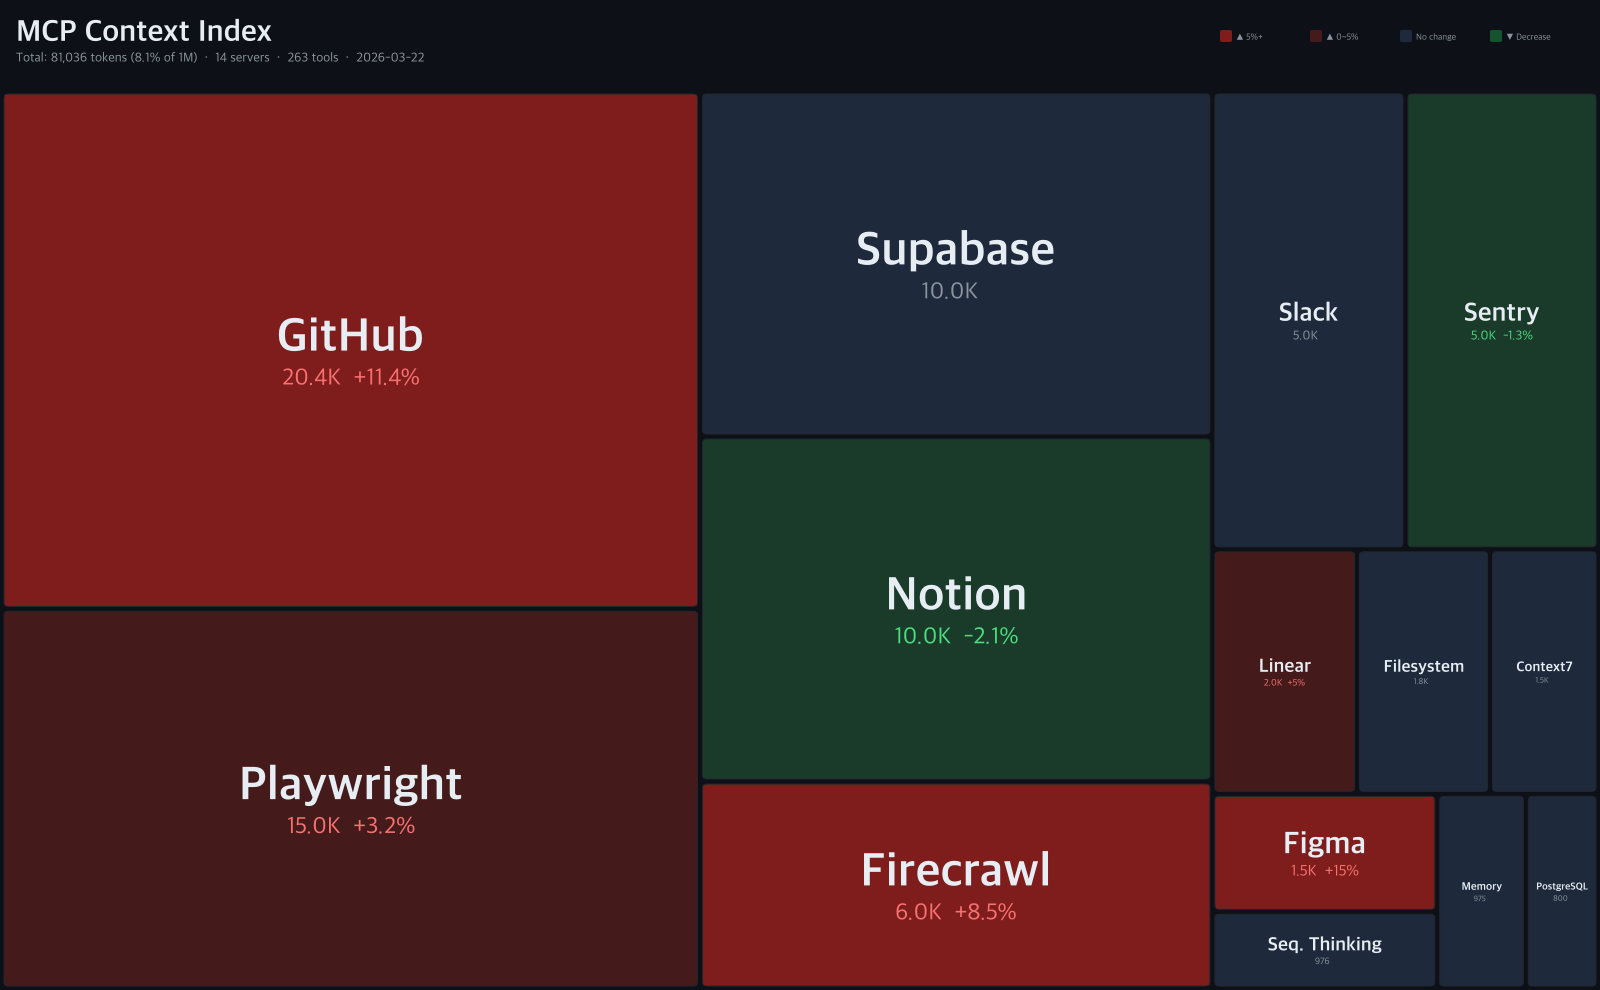
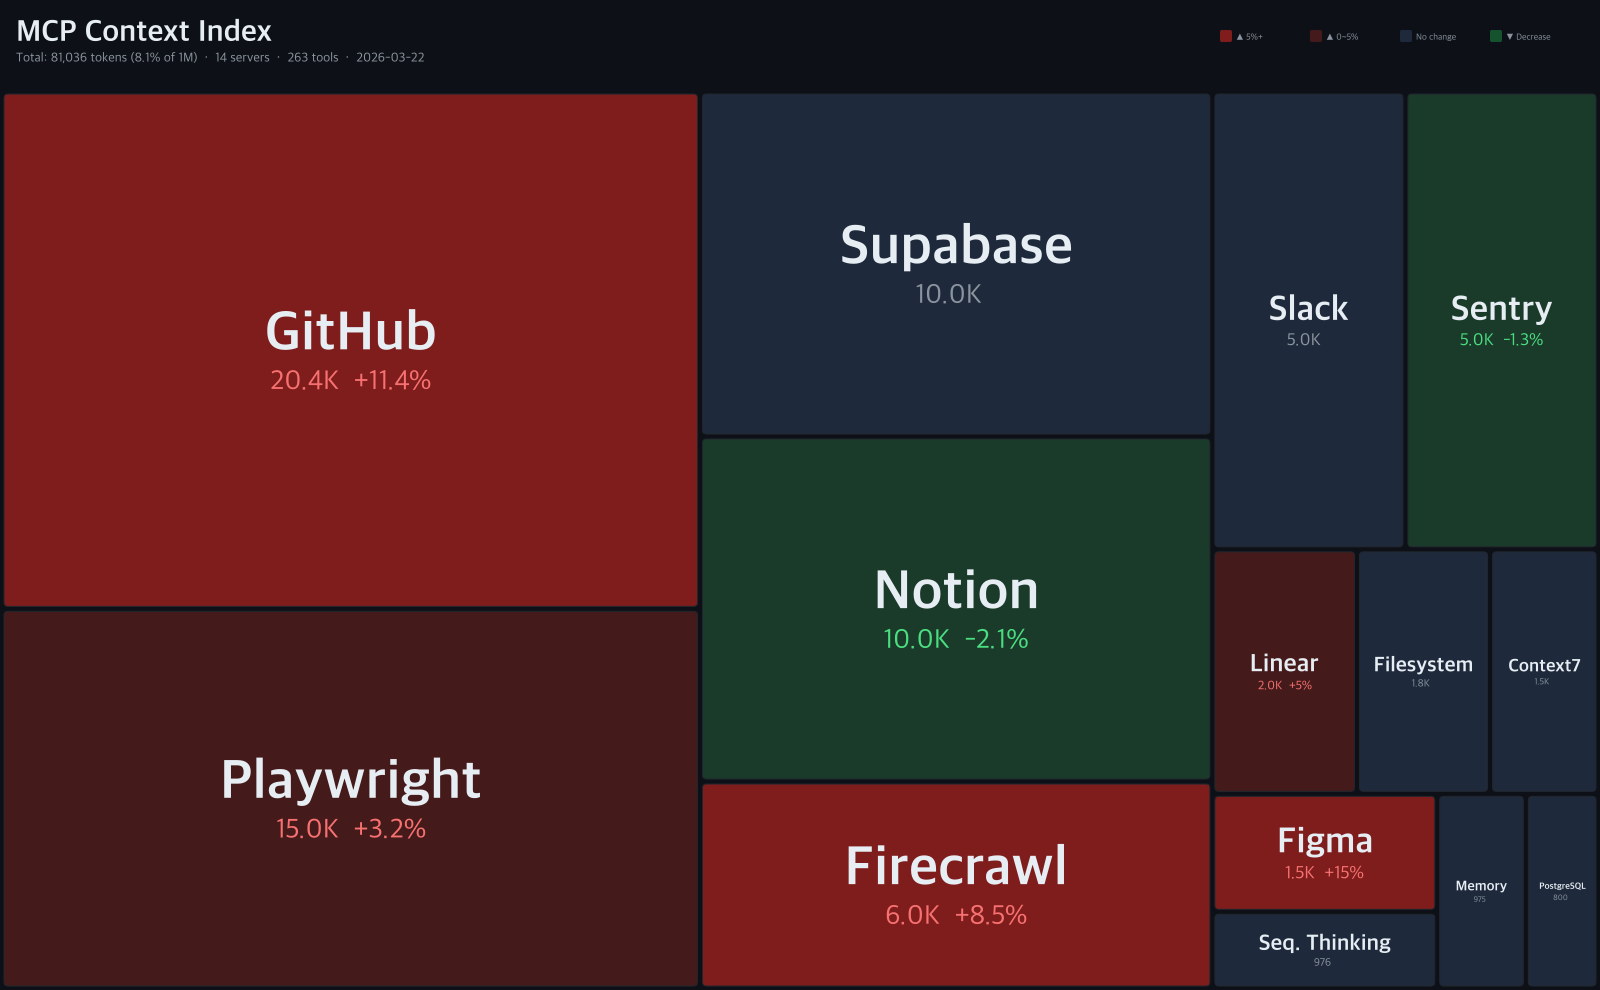
Add skills to treemap + fix thin block readability
- Skills data (ECC, Trail of Bits, Superpowers) now shown in agent context treemap
- Thin blocks: font clamped to block height, sub-text hidden when no space
- Very small blocks: single-line name only, skip if too small
- Skills category legend added (teal)

diff --git a/scripts/render-treemap.js b/scripts/render-treemap.js
@@ -62,16 +62,17 @@ function setFont(ctx, size, weight = 'normal') {
 }
 
 /**
- * Calculate font size that makes text fill ~targetRatio of the block width.
- * Uses canvas measureText for accuracy.
+ * Calculate font size that fits text within block dimensions.
+ * Constrained by both width and height.
  */
-function fitFontSize(ctx, text, blockW, blockH, weight = 'bold', targetRatio = 0.85, maxLines = 3) {
-  const maxByHeight = blockH / (maxLines * 1.6);
-  let fs = Math.min(blockW * 0.15, maxByHeight, 48);
+function fitFontSize(ctx, text, blockW, blockH, weight = 'bold', targetRatio = 0.85, maxLines = 2) {
+  // Height constraint: name + sub-text must fit in block
+  const maxByHeight = blockH / (maxLines * 1.4);
+  let hi = Math.min(blockW * 0.2, maxByHeight, 56);
 
-  // Binary search for best fit
-  let lo = 8, hi = fs;
-  for (let i = 0; i < 10; i++) {
+  // Binary search for width fit
+  let lo = 6;
+  for (let i = 0; i < 12; i++) {
     const mid = (lo + hi) / 2;
     setFont(ctx, mid, weight);
     const measured = ctx.measureText(text).width;
@@ -81,7 +82,7 @@ function fitFontSize(ctx, text, blockW, blockH, weight = 'bold', targetRatio = 0
       hi = mid;
     }
   }
-  return Math.max(10, Math.floor(lo));
+  return Math.max(8, Math.floor(lo));
 }
 
 // ── Load Data ────────────────────────────────────────────
@@ -106,6 +107,25 @@ function loadMcpHistory() {
     history[id] = JSON.parse(readFileSync(join(mcpDir, file), 'utf-8'));
   }
   return history;
+}
+
+function loadSkillData() {
+  const skillDir = join(DATA_DIR, 'skills');
+  if (!existsSync(skillDir)) return [];
+
+  const results = [];
+  for (const file of readdirSync(skillDir).filter(f => f.endsWith('.json'))) {
+    const data = JSON.parse(readFileSync(join(skillDir, file), 'utf-8'));
+    const latest = data.versions?.[data.versions.length - 1];
+    if (latest && latest.alwaysOnTokens > 0) {
+      results.push({
+        name: data.name,
+        tokens: latest.alwaysOnTokens,
+        skillCount: latest.skillCount,
+      });
+    }
+  }
+  return results;
 }
 
 // ── Render MCP Treemap ───────────────────────────────────
@@ -156,43 +176,45 @@ function renderMcpTreemap(snapshot) {
     roundRect(ctx, x + 1, y + 1, w - 2, h - 2, 4);
     ctx.stroke();
 
-    // Stock-style centered label: NAME big + sub-info below
+    // Stock-style centered label
     const pad = 6;
     const innerW = w - pad * 2;
     const innerH = h - pad * 2;
-    if (innerW < 15 || innerH < 12) continue;
+    if (innerW < 15 || innerH < 10) continue;
 
     ctx.textAlign = 'center';
     const cx = x + w / 2;
     const cy = y + h / 2;
 
-    // Short name for fitting
     const shortName = d.name.replace(' MCP', '').replace(' Server', '');
-
-    // Line 1: Name (big, bold) — fit to block width
-    const nameFs = fitFontSize(ctx, shortName, innerW, innerH, 'bold', 0.85, 2);
-
-    // Line 2: sub info — tokens or change
     const changeTxt = changePct > 0 ? `+${changePct}%` : changePct < 0 ? `${changePct}%` : '';
-    const subText = innerH > nameFs * 2
-      ? `${formatTokens(d.tokens)}  ${changeTxt}`
-      : changeTxt || formatTokens(d.tokens);
-    const subFs = Math.max(8, nameFs * 0.5);
 
-    // Calculate vertical centering
-    const totalTextH = innerH > nameFs * 1.8 ? nameFs + subFs * 1.2 : nameFs;
-    const startY = cy - totalTextH / 2;
+    if (innerH >= 28) {
+      // Enough height for name + sub
+      const nameFs = fitFontSize(ctx, shortName, innerW, innerH, 'bold', 0.85, 2);
+      const showSub = innerH > nameFs * 1.6;
+      const subFs = Math.max(8, nameFs * 0.5);
+      const totalH = showSub ? nameFs + subFs * 1.3 : nameFs;
+      const startY = cy - totalH / 2;
 
-    // Draw name
-    setFont(ctx, nameFs, 'bold');
-    ctx.fillStyle = STYLE.textPrimary;
-    ctx.fillText(shortName, cx, startY + nameFs * 0.85);
+      setFont(ctx, nameFs, 'bold');
+      ctx.fillStyle = STYLE.textPrimary;
+      ctx.fillText(shortName, cx, startY + nameFs * 0.85);
 
-    // Draw sub-info if space
-    if (innerH > nameFs * 1.8) {
-      setFont(ctx, subFs);
-      ctx.fillStyle = changePct !== 0 ? changeBadgeColor(changePct) : STYLE.textSecondary;
-      ctx.fillText(subText, cx, startY + nameFs * 0.85 + subFs * 1.4);
+      if (showSub) {
+        const subText = `${formatTokens(d.tokens)}  ${changeTxt}`;
+        setFont(ctx, subFs);
+        ctx.fillStyle = changePct !== 0 ? changeBadgeColor(changePct) : STYLE.textSecondary;
+        ctx.fillText(subText, cx, startY + nameFs * 0.85 + subFs * 1.4);
+      }
+    } else {
+      // Very thin: single line, clamp to height
+      const fs = Math.min(innerH * 0.7, fitFontSize(ctx, shortName, innerW, innerH, 'bold', 0.9, 1));
+      if (fs >= 7) {
+        setFont(ctx, fs, 'bold');
+        ctx.fillStyle = STYLE.textPrimary;
+        ctx.fillText(shortName, cx, cy + fs * 0.35);
+      }
     }
 
     ctx.textAlign = 'left';
@@ -280,6 +302,18 @@ function renderAgentContext(agentName, agentData, mcpSnapshot) {
     }
   }
 
+  // Skills (always-on description tokens)
+  const skills = loadSkillData();
+  for (const skill of skills) {
+    items.push({
+      name: skill.name,
+      tokens: skill.tokens,
+      color: '#164e63',
+      change: 0,
+      category: 'skill',
+    });
+  }
+
   // Free space
   const used = items.reduce((s, x) => s + x.tokens, 0);
   const free = Math.max(0, TOTAL - used);
@@ -307,27 +341,37 @@ function renderAgentContext(agentName, agentData, mcpSnapshot) {
     const pad = 6;
     const innerW = w - pad * 2;
     const innerH = h - pad * 2;
-    if (innerW < 15 || innerH < 12) continue;
+    if (innerW < 15 || innerH < 10) continue;
 
     ctx.textAlign = 'center';
     const cx = x + w / 2;
     const cy = y + h / 2;
 
-    const shortName = d.name.replace(' MCP', '').replace(' Server', '').replace(' Buffer', '\nBuffer');
-    const nameFs = fitFontSize(ctx, shortName.split('\n')[0], innerW, innerH, 'bold', 0.85, 2);
-    const subText = `${formatTokens(d.tokens)} (${pct}%)`;
-    const subFs = Math.max(8, nameFs * 0.5);
-    const totalTextH = innerH > nameFs * 1.8 ? nameFs + subFs * 1.2 : nameFs;
-    const startY = cy - totalTextH / 2;
+    const shortName = d.name.replace(' MCP', '').replace(' Server', '');
 
-    setFont(ctx, nameFs, 'bold');
-    ctx.fillStyle = isFree ? STYLE.green : STYLE.textPrimary;
-    ctx.fillText(shortName.split('\n')[0], cx, startY + nameFs * 0.85);
+    if (innerH >= 28) {
+      const nameFs = fitFontSize(ctx, shortName, innerW, innerH, 'bold', 0.85, 2);
+      const showSub = innerH > nameFs * 1.6;
+      const subFs = Math.max(8, nameFs * 0.5);
+      const totalH = showSub ? nameFs + subFs * 1.3 : nameFs;
+      const startY = cy - totalH / 2;
 
-    if (innerH > nameFs * 1.8) {
-      setFont(ctx, subFs);
-      ctx.fillStyle = isFree ? '#22c55eaa' : STYLE.textSecondary;
-      ctx.fillText(subText, cx, startY + nameFs * 0.85 + subFs * 1.4);
+      setFont(ctx, nameFs, 'bold');
+      ctx.fillStyle = isFree ? STYLE.green : STYLE.textPrimary;
+      ctx.fillText(shortName, cx, startY + nameFs * 0.85);
+
+      if (showSub) {
+        setFont(ctx, subFs);
+        ctx.fillStyle = isFree ? '#22c55eaa' : STYLE.textSecondary;
+        ctx.fillText(`${formatTokens(d.tokens)} (${pct}%)`, cx, startY + nameFs * 0.85 + subFs * 1.4);
+      }
+    } else {
+      const fs = Math.min(innerH * 0.7, fitFontSize(ctx, shortName, innerW, innerH, 'bold', 0.9, 1));
+      if (fs >= 7) {
+        setFont(ctx, fs, 'bold');
+        ctx.fillStyle = isFree ? STYLE.green : STYLE.textPrimary;
+        ctx.fillText(shortName, cx, cy + fs * 0.35);
+      }
     }
 
     ctx.textAlign = 'left';
@@ -352,9 +396,9 @@ function renderAgentContext(agentName, agentData, mcpSnapshot) {
   // Category legend
   const cats = [
     ['#312e81', 'System'], ['#4c1d95', 'Tools'], ['#7f1d1d', 'MCP ▲'],
-    ['#1e293b', 'Buffer'], ['#0f2e1a', 'Free'],
+    ['#164e63', 'Skills'], ['#1e293b', 'Buffer'], ['#0f2e1a', 'Free'],
   ];
-  const legX = W - 400;
+  const legX = W - 480;
   cats.forEach(([c, l], i) => {
     const lx = legX + i * 75;
     ctx.fillStyle = c;
